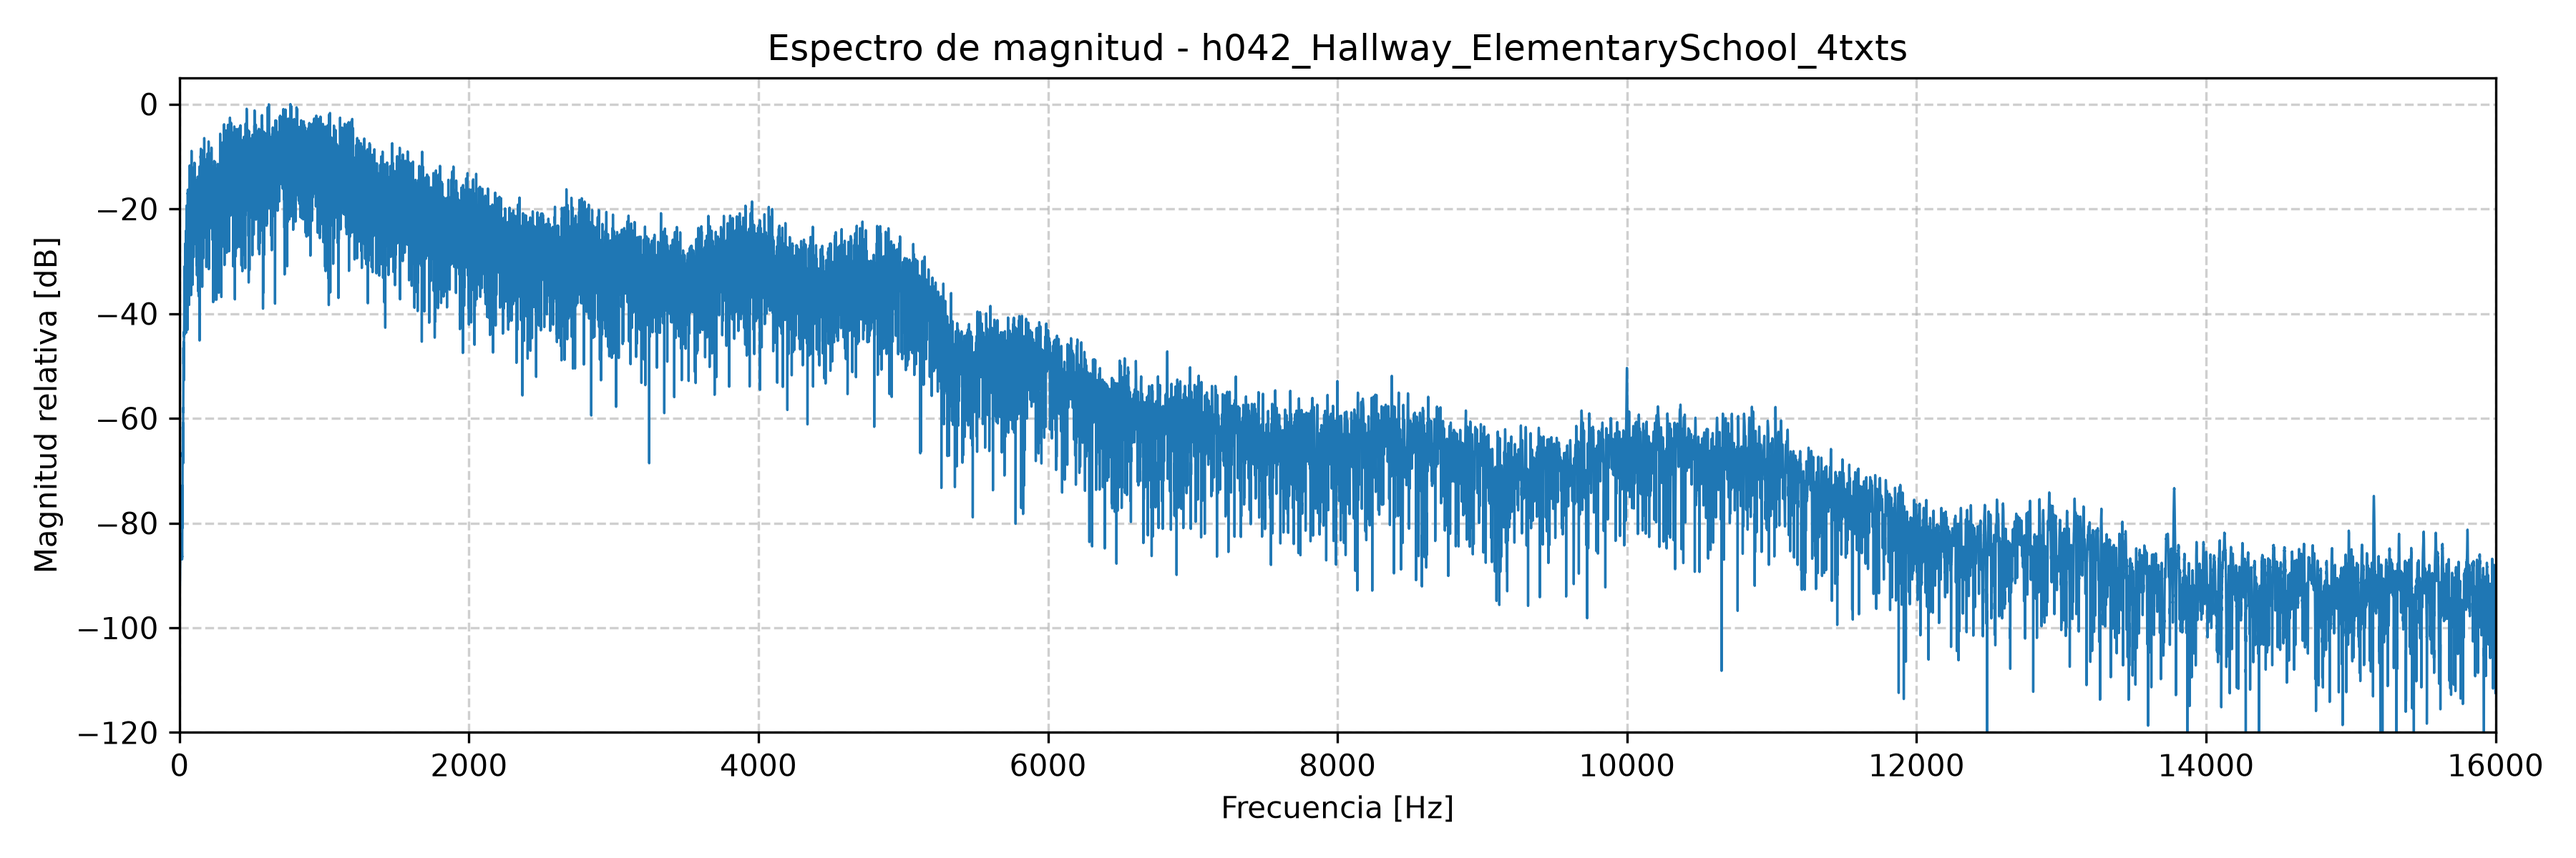
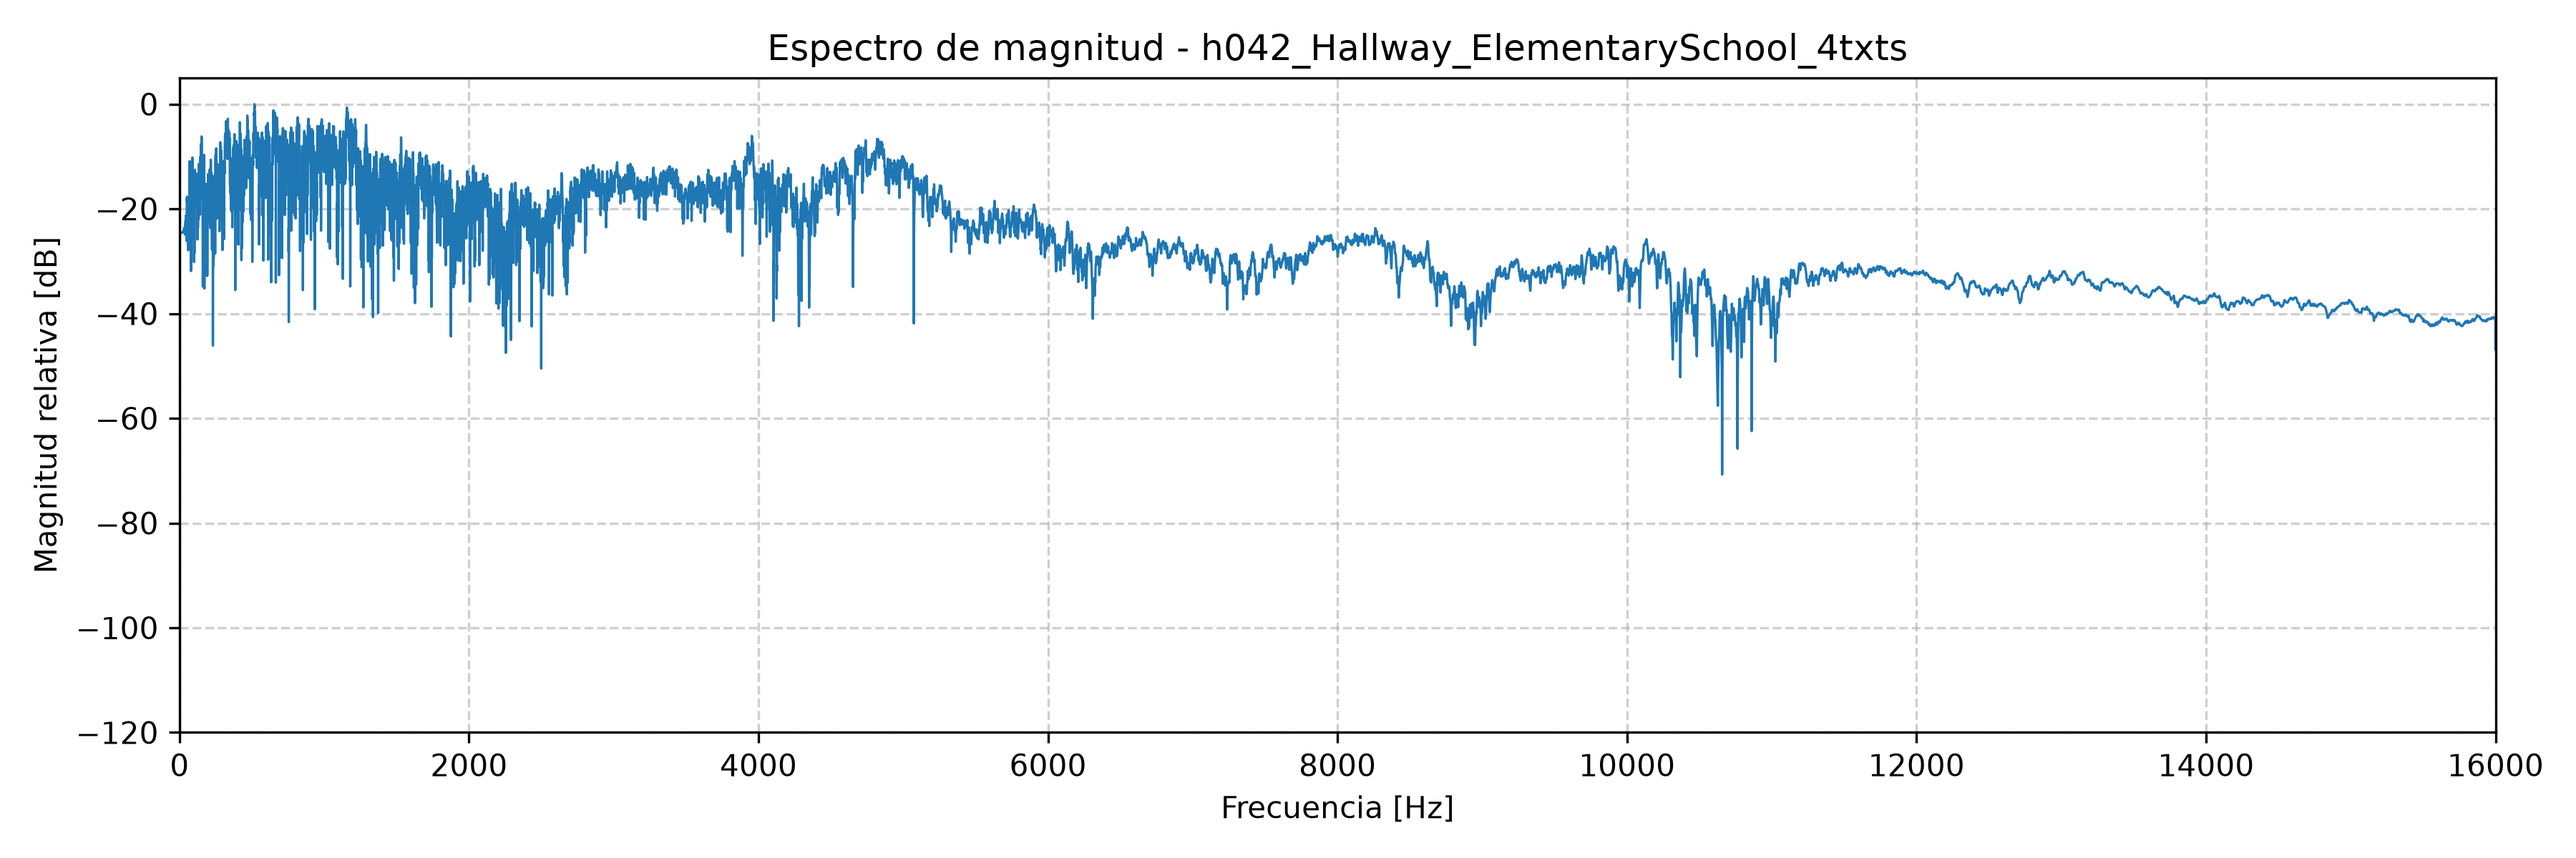
fix(m2): calcular espectros sin ventana Hann

Changed region(s): [[0.0622, 0.1233, 0.9956, 0.8325], [0.84, 0.3392, 0.9333, 0.37], [0.9333, 0.37, 0.9644, 0.4008]]

diff --git a/scripts/validate_m2.py b/scripts/validate_m2.py
@@ -59,15 +59,11 @@ for file_name in files_to_process:
     # ---------------------------------------------------------
     N = len(signal)
 
-    # Ventana Hann para reducir la fuga espectral
-    window = np.hanning(N)
-    windowed_signal = signal * window
+    # Transformada de Fourier de la RI completa, sin aplicar ventana.
+    spectrum = np.abs(np.fft.rfft(signal))
 
-    # Transformada de Fourier para señales reales
-    spectrum = np.abs(np.fft.rfft(windowed_signal))
-
-    # Escala de amplitud de un solo lado
-    spectrum = spectrum / np.sum(window)
+    # Escala de amplitud de un solo lado.
+    spectrum = spectrum / N
     spectrum[1:-1] *= 2
 
     frequencies = np.fft.rfftfreq(N, d=1 / fs)
